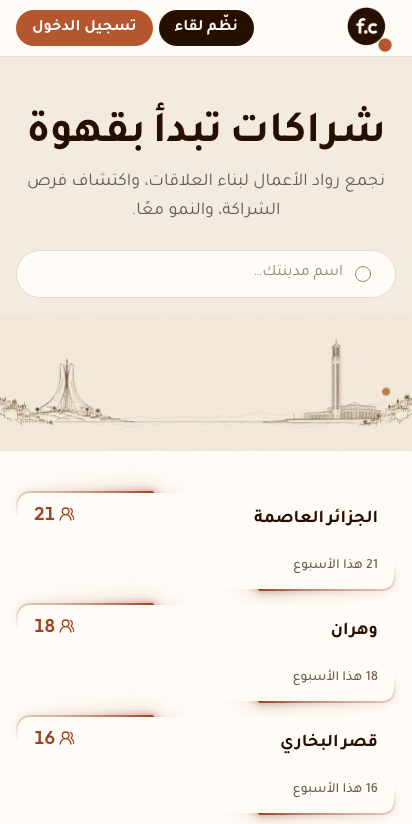
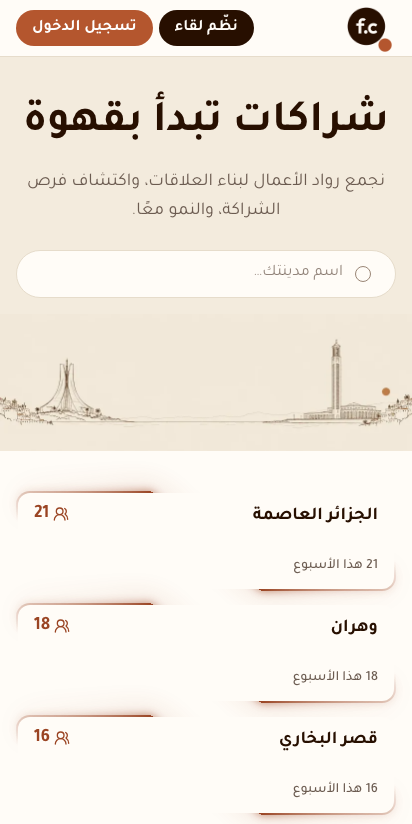
fix(i18n): give an Arabic heading back the space between its words
A run of Arabic takes its word space from the first font in the stack that owns a space glyph,
and `--font-display` leads with Outfit. So a heading carrying `font-display` was set in Tajawal
but spaced by Outfit: 0.215em where the same sentence in a paragraph gets 0.240em, and
`tracking-tight` took another 0.025em off that. Arabic letters join inside a word, which makes
that gap the only mark of where one word ends and the next begins, so at that width
"الجزائر العاصمة" reads as one word.

The base layer already said both of these for `:lang(ar)`, and a Tailwind utility outranks a
base rule. It now says them again from inside the utilities layer, with a selector specific
enough to win, scoped to `.font-display`: daisyUI's `.otp` and `.countdown` place their digits
with letter-spacing measured in `ch`, and a blanket Arabic reset would collapse both.

Measured in Chromium: headings 0.240em, matching body text at 0.233-0.241em; with the rule
defeated the same heading falls back to Outfit at 0.215em. `.otp` and `.countdown` still
compute their own letter-spacing.

The three install-dialog screenshots are re-captured, because the old ones baked in the gap.

Claude-Session: https://claude.ai/code/session_015m1e3kWJe4zmsmDvyvbGXP

diff --git a/libs/ui/src/styles.css b/libs/ui/src/styles.css
@@ -197,3 +197,23 @@
     font-weight: 600;
   }
 }
+
+/* A run of Arabic takes its word space from the first font in the stack that owns a space
+   glyph, and `--font-display` leads with Outfit. So a heading carrying the `font-display`
+   utility was set in Tajawal but spaced by Outfit: 0.17em where the same sentence in a
+   paragraph gets 0.24em. Arabic letters join inside a word, which makes that gap the only
+   mark of where one word ends and the next begins, and at 0.17em "الجزائر العاصمة" reads as
+   one word. `tracking-tight` on the same elements took another 0.025em off it.
+
+   The base layer already says both of these for `:lang(ar)`, and a utility outranks a base
+   rule, so it says them again from inside the utilities layer with a selector specific
+   enough to win. Scoped to `.font-display` on purpose: daisyUI's `.otp` and `.countdown`
+   place their digits with letter-spacing measured in `ch`, and a blanket Arabic reset would
+   collapse both. */
+@layer utilities {
+  :lang(ar) .font-display,
+  :lang(ar).font-display {
+    font-family: var(--font-arabic);
+    letter-spacing: 0;
+  }
+}
